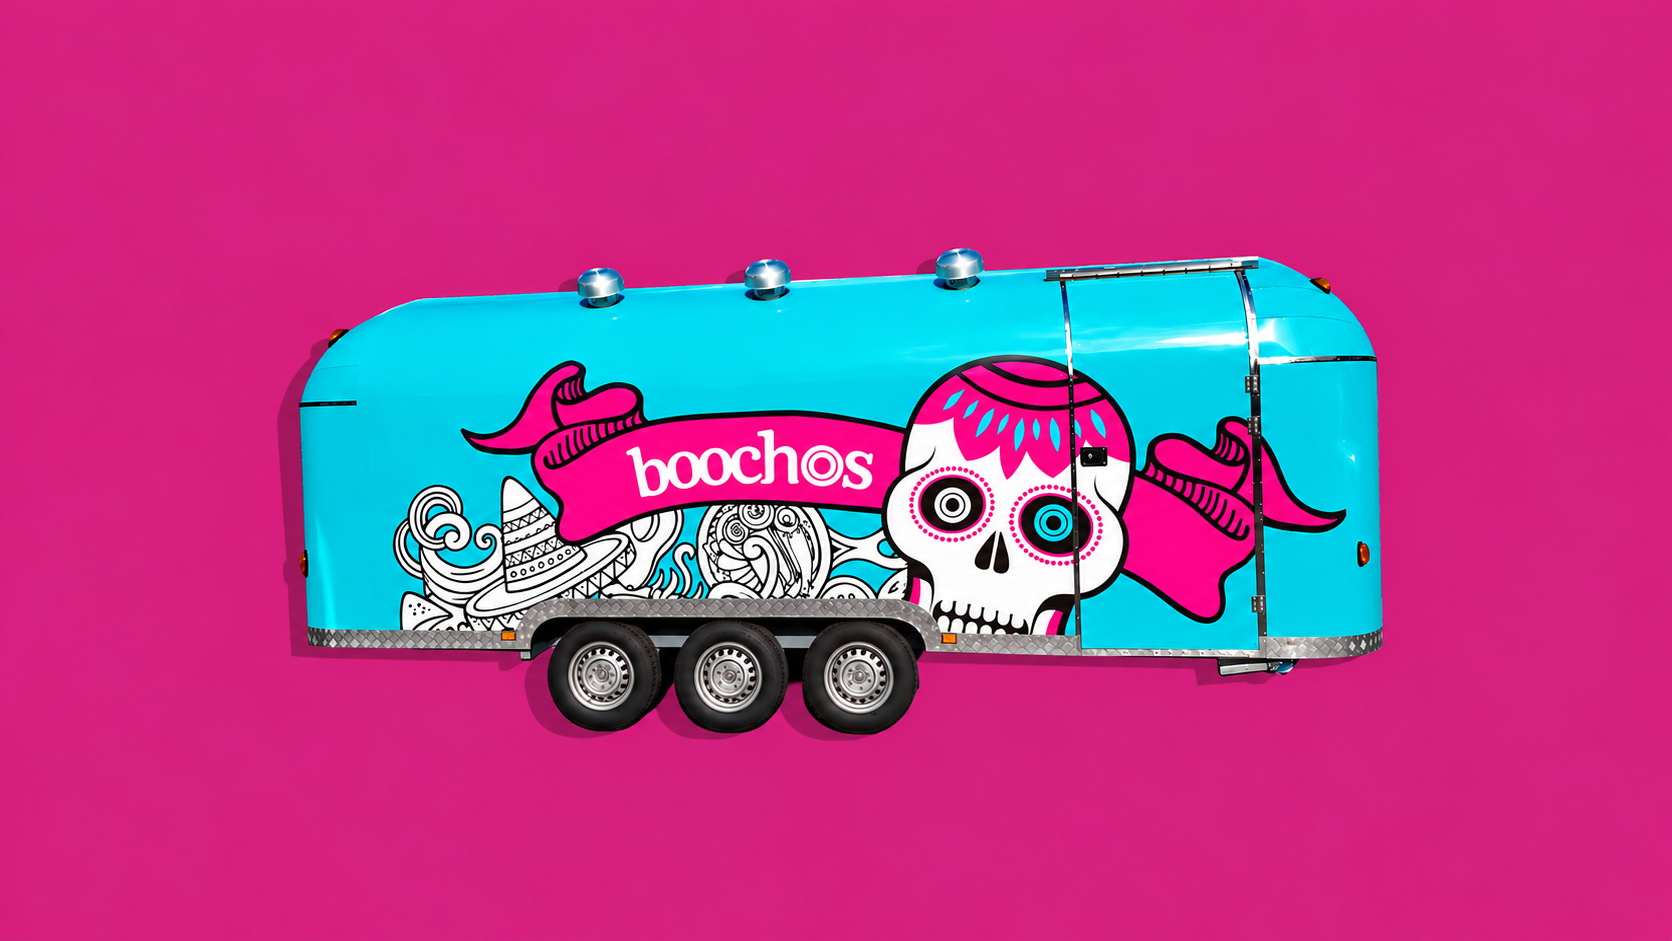
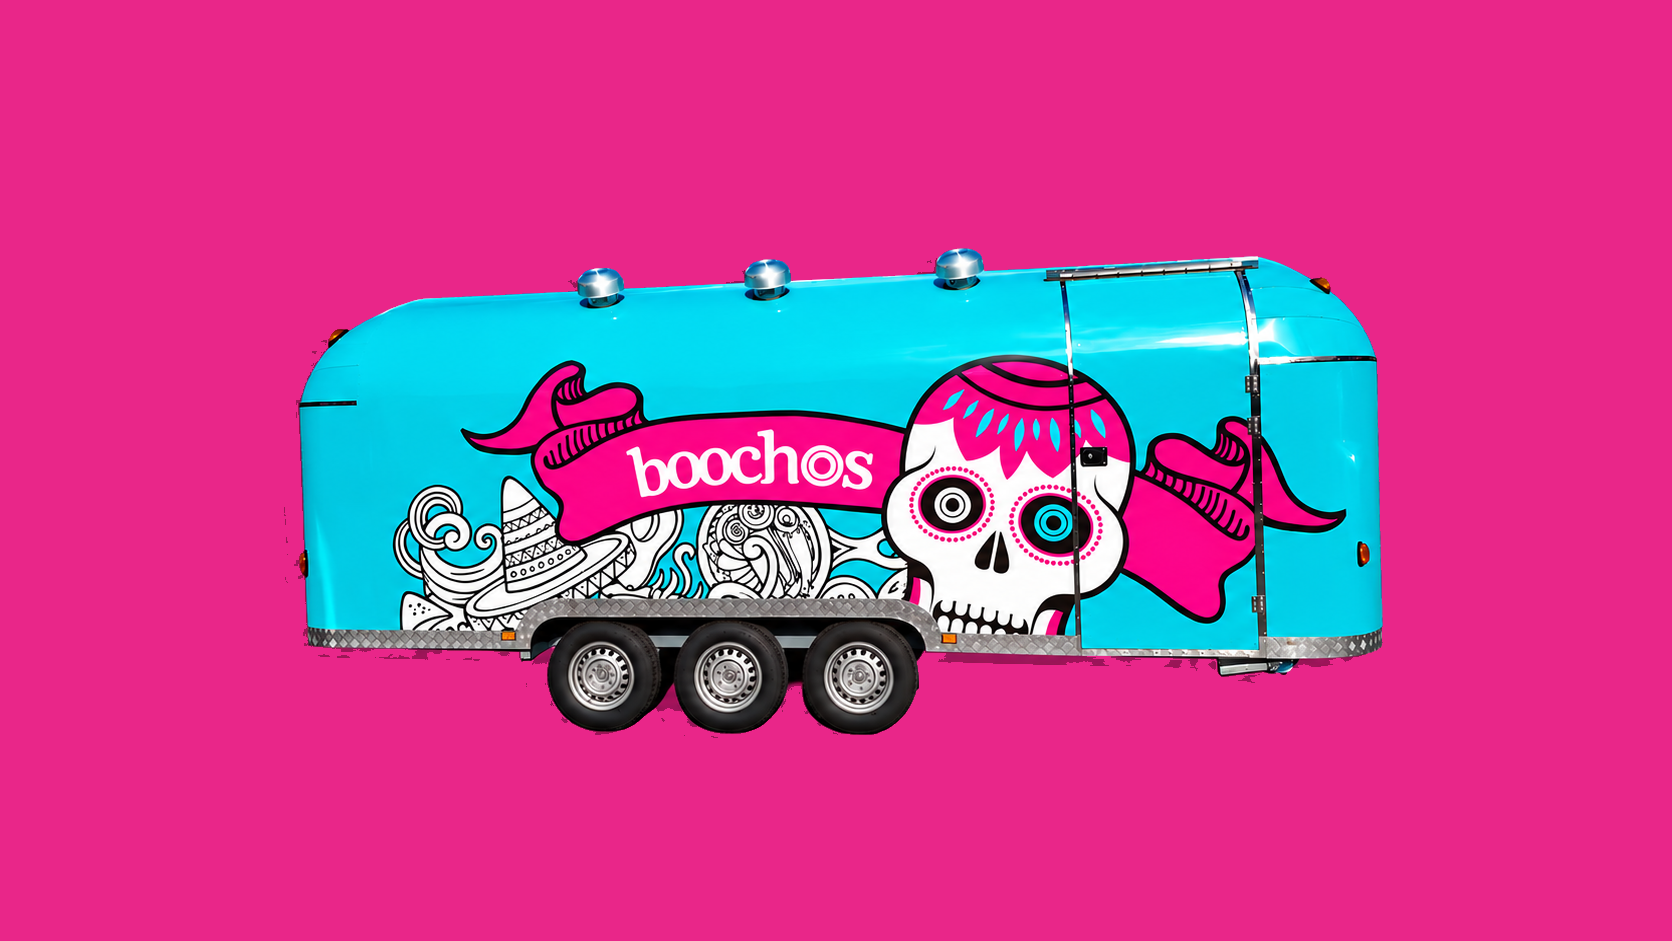
Eliminate colour-panel seams on Selected Work
Align Soot, Food, Punkt and Boochos plate fills to brand hex and
flatten only the flat image backgrounds so artwork merges flush.

diff --git a/selected-work/index.html b/selected-work/index.html
@@ -14,8 +14,8 @@
       href="https://fonts.googleapis.com/css2?family=Instrument+Sans:ital,wght@0,400;0,500;0,600;0,700;1,400&display=swap"
       rel="stylesheet"
     />
-    <link rel="stylesheet" href="../freedom-50/styles.css?v=selected-revert-1" />
-    <link rel="stylesheet" href="theme.css?v=selected-revert-1" />
+    <link rel="stylesheet" href="../freedom-50/styles.css?v=selected-merge-2" />
+    <link rel="stylesheet" href="theme.css?v=selected-merge-2" />
   </head>
   <body>
     <a class="skip-link" href="#main">Skip to content</a>

diff --git a/selected-work/theme.css b/selected-work/theme.css
@@ -3,11 +3,10 @@
 
 :root {
   --accent: #f4c542;
-  /* Plate fills match artwork edge colour so images merge (no inset rectangle). */
   --plate-boochos: #e92689;
-  --plate-soot: #a9a2e6;
-  --plate-food: #31c8d9;
-  --plate-punkt: #fddc02;
+  --plate-soot: #c9aef9;
+  --plate-food: #19d5da;
+  --plate-punkt: #fee103;
   --edit-radius: 14px;
 }
 
